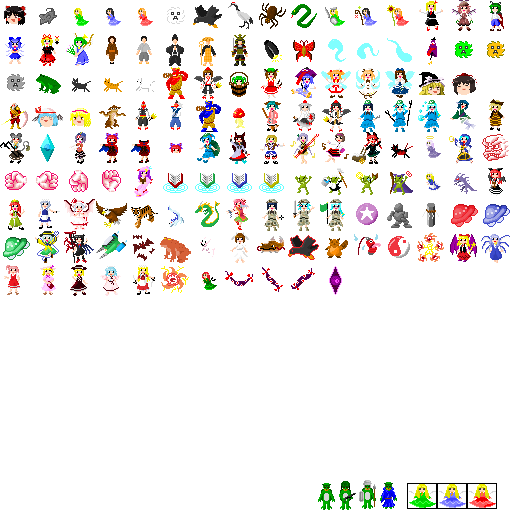
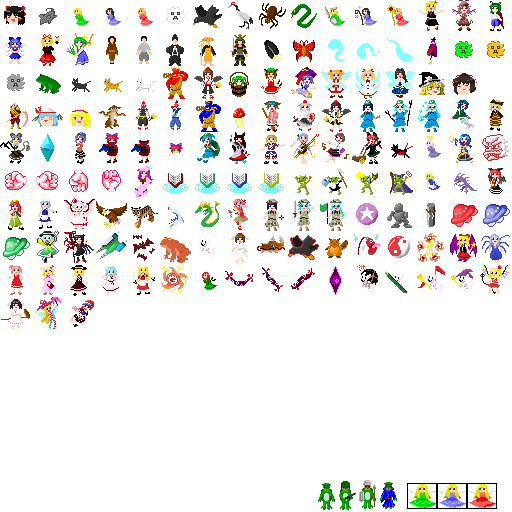
캐릭터 도트들 추가. 클라피와 도레미 추가

diff --git a/th_crawl/texture.cpp b/th_crawl/texture.cpp
@@ -275,6 +275,10 @@ textures img_mons_yumeko(&texture_monster01, 132, 255);
 textures img_mons_evil_eye(&texture_monster01, 133, 255);
 textures img_mons_little_imp(&texture_monster01, 134, 255);
 textures img_mons_schema_eye(&texture_monster01, 138, 255);
+textures img_mons_bomb_rabbit(&texture_monster01, 139, 255);
+textures img_mons_spear_rabbit(&texture_monster01, 140, 255);
+textures img_mons_support_rabbit(&texture_monster01, 141, 255);
+textures img_mons_magic_rabbit(&texture_monster01, 142, 255);
 
 
 textures img_named_rumia(&texture_monster01, 13, 255);
@@ -326,6 +330,10 @@ textures img_named_remilia(&texture_monster01, 98, 255);
 textures img_named_kasen(&texture_monster01, 103, 255);
 textures img_named_koishi(&texture_monster01, 113, 255);
 textures img_named_nue(&texture_monster01, 114, 255);
+textures img_named_flandre(&texture_monster01, 143, 255);
+textures img_named_tewi(&texture_monster01, 144, 255);
+textures img_named_clownpiece(&texture_monster01, 145, 255);
+textures img_named_doremi(&texture_monster01, 146, 255);
 
 
 
@@ -1278,7 +1286,23 @@ int texturetoint(textures* input)
 	else if(input == &img_effect_schema[1])
 		return 225;
 	else if(input == &img_effect_schema[2])
-		return 226;
+		return 226;	
+	else if(input == &img_mons_bomb_rabbit)
+		return 227;
+	else if(input == &img_mons_spear_rabbit)
+		return 228;
+	else if(input == &img_mons_support_rabbit)
+		return 229;
+	else if(input == &img_mons_magic_rabbit)
+		return 230;
+	else if(input == &img_named_flandre)
+		return 231;
+	else if(input == &img_named_tewi)
+		return 232;
+	else if(input == &img_named_clownpiece)
+		return 233;
+	else if(input == &img_named_doremi)
+		return 234;
 	else
 		return 0;
 }
@@ -1740,6 +1764,22 @@ textures* inttotexture(int input)
 		return &img_effect_schema[1];
 	case 226:
 		return &img_effect_schema[2];
+	case 227:
+		return &img_mons_bomb_rabbit;
+	case 228:
+		return &img_mons_spear_rabbit;
+	case 229:
+		return &img_mons_support_rabbit;
+	case 230:
+		return &img_mons_magic_rabbit;
+	case 231:
+		return &img_named_flandre;
+	case 232:
+		return &img_named_tewi;
+	case 233:
+		return &img_named_clownpiece;
+	case 234:
+		return &img_named_doremi;
 	default:
 		return &img_mons_default;
 	}

diff --git a/th_crawl/monster_texture.h b/th_crawl/monster_texture.h
@@ -109,6 +109,11 @@ extern textures img_mons_evil_eye;
 extern textures img_mons_little_imp;
 extern textures img_mons_schema_eye;
 
+extern textures img_mons_bomb_rabbit;
+extern textures img_mons_spear_rabbit;
+extern textures img_mons_support_rabbit;
+extern textures img_mons_magic_rabbit;
+
 
 
 
@@ -163,6 +168,12 @@ extern textures img_named_remilia;
 extern textures img_named_kasen;
 extern textures img_named_koishi;
 extern textures img_named_nue;
+
+extern textures img_named_flandre;
+extern textures img_named_tewi;
+extern textures img_named_clownpiece;
+extern textures img_named_doremi;
+
 
 
 

diff --git a/th_crawl/create_mon.cpp b/th_crawl/create_mon.cpp
@@ -710,6 +710,9 @@ int get_unique_to_id(int m_id)
 	case MON_NUE: return 32;
 	case MON_FLAN: 
 	case MON_FLAN_BUNSIN: return 33;
+	case MON_TEWI:  return 34;
+	case MON_CLOWNPIECE:  return 35;
+	case MON_DOREMI:  return 36;
 	}
 }
 
@@ -1146,6 +1149,16 @@ void SetResistMonster(monster* mon)
 	case MON_FLAN_BUNSIN:
 		mon->fire_resist=1;
 		mon->poison_resist=1;
-		break;		
+		break;
+	case MON_TEWI:
+		break;
+	case MON_CLOWNPIECE:
+		mon->fire_resist=2;
+		break;
+	case MON_DOREMI:
+		mon->elec_resist=1;
+		mon->ice_resist=1;
+		mon->poison_resist=1;
+		break;
 	}
 }

diff --git a/th_crawl/enum.h b/th_crawl/enum.h
@@ -512,6 +512,9 @@ enum monster_index
 	MON_RABIT_SPEAR,
 	MON_RABIT_SUPPORT,
 	MON_RABIT_MAGIC,
+	MON_TEWI,
+	MON_CLOWNPIECE,
+	MON_DOREMI,
 	MON_MAX,
 	MON_MAX_IN_FLOOR = 256
 };
